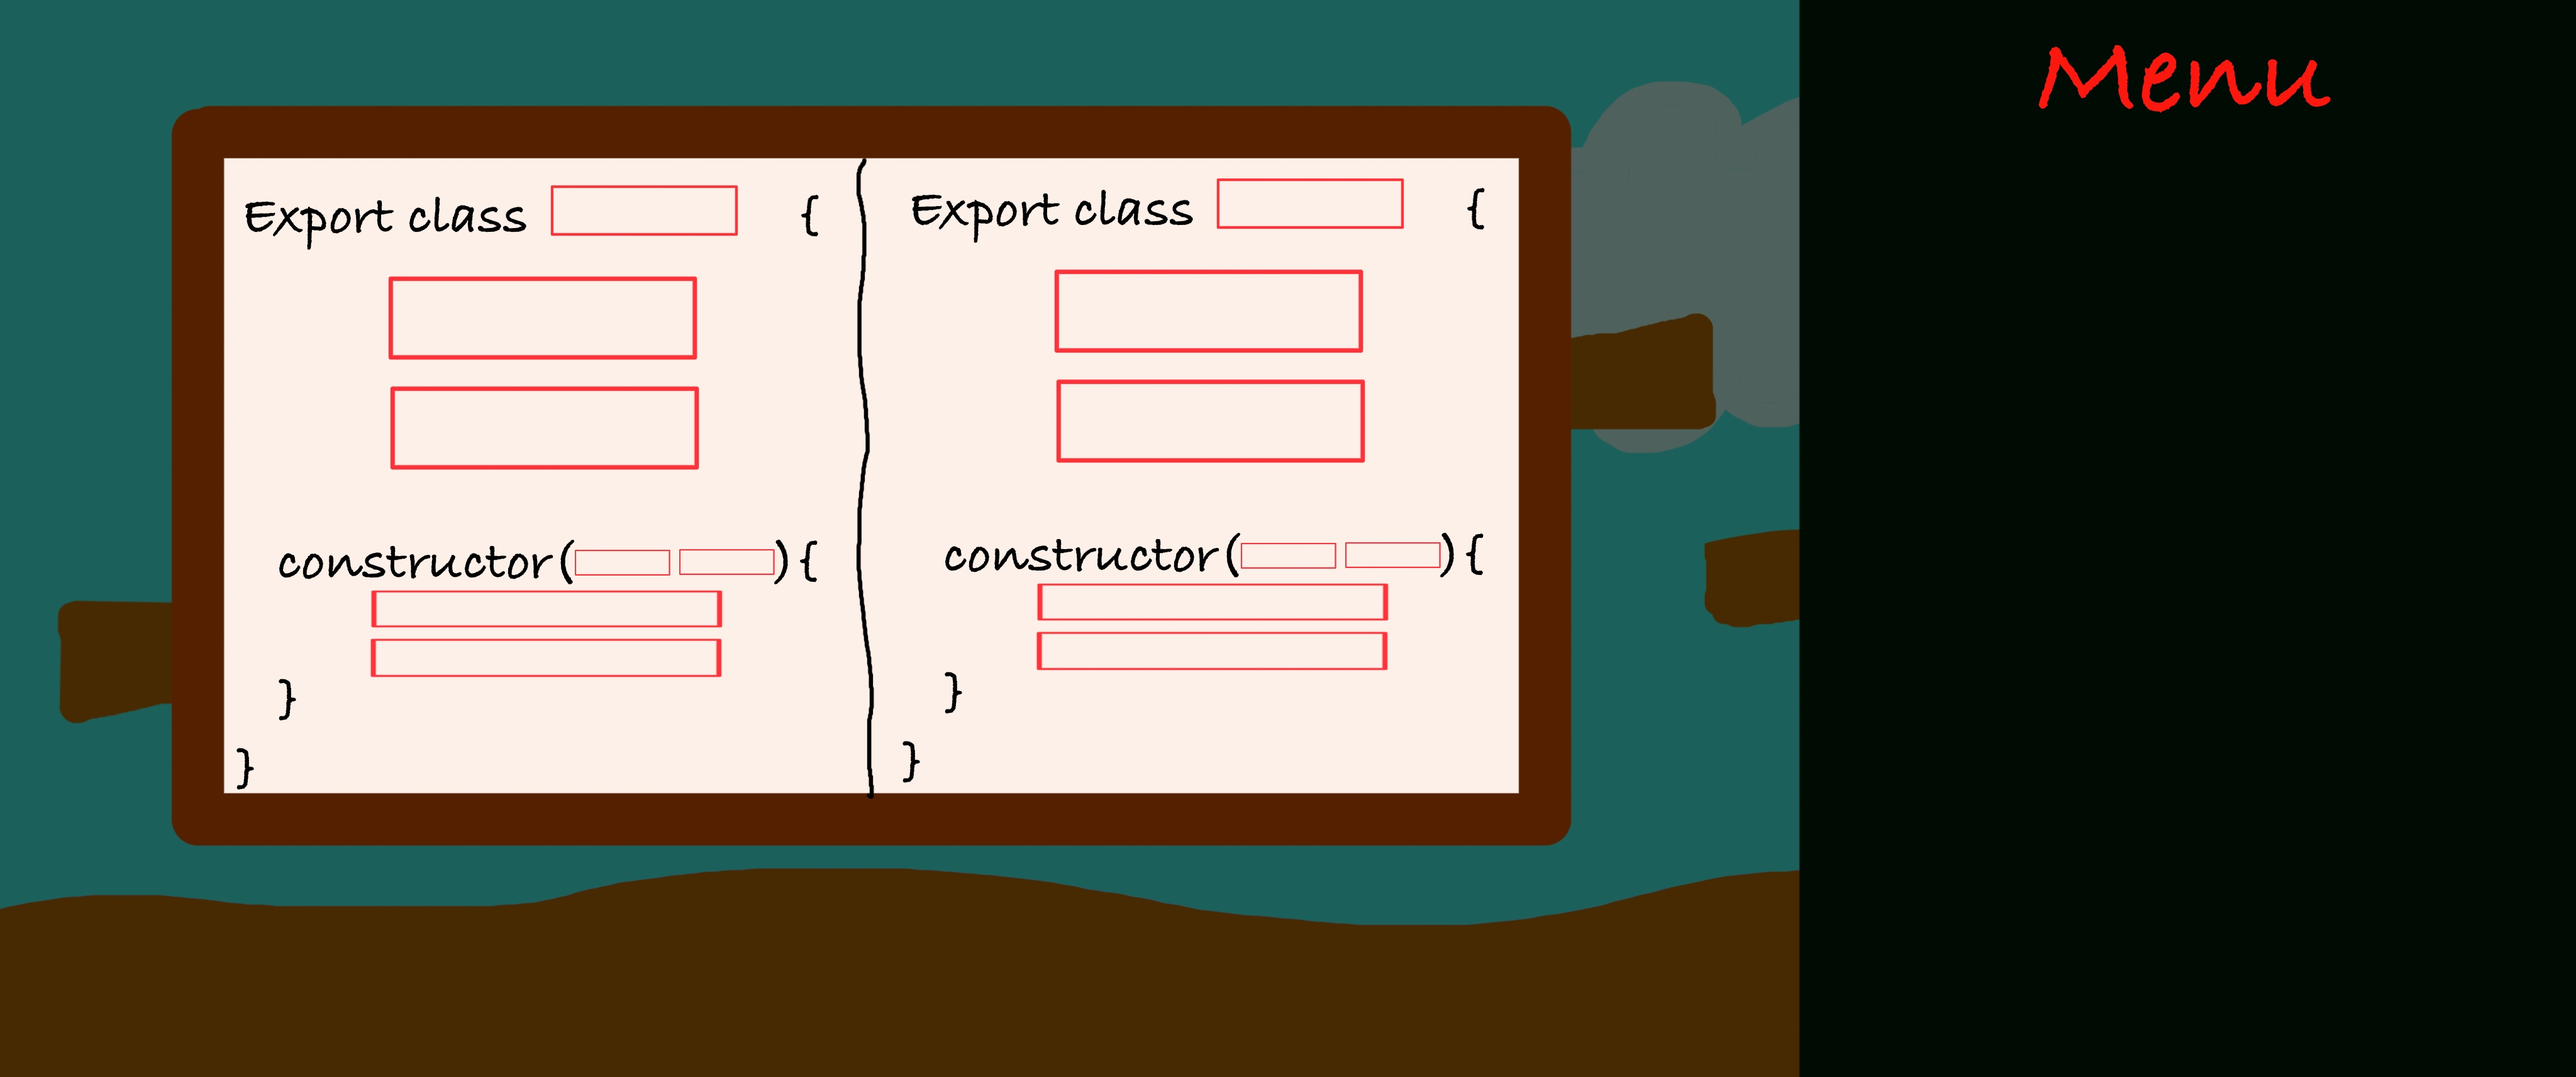
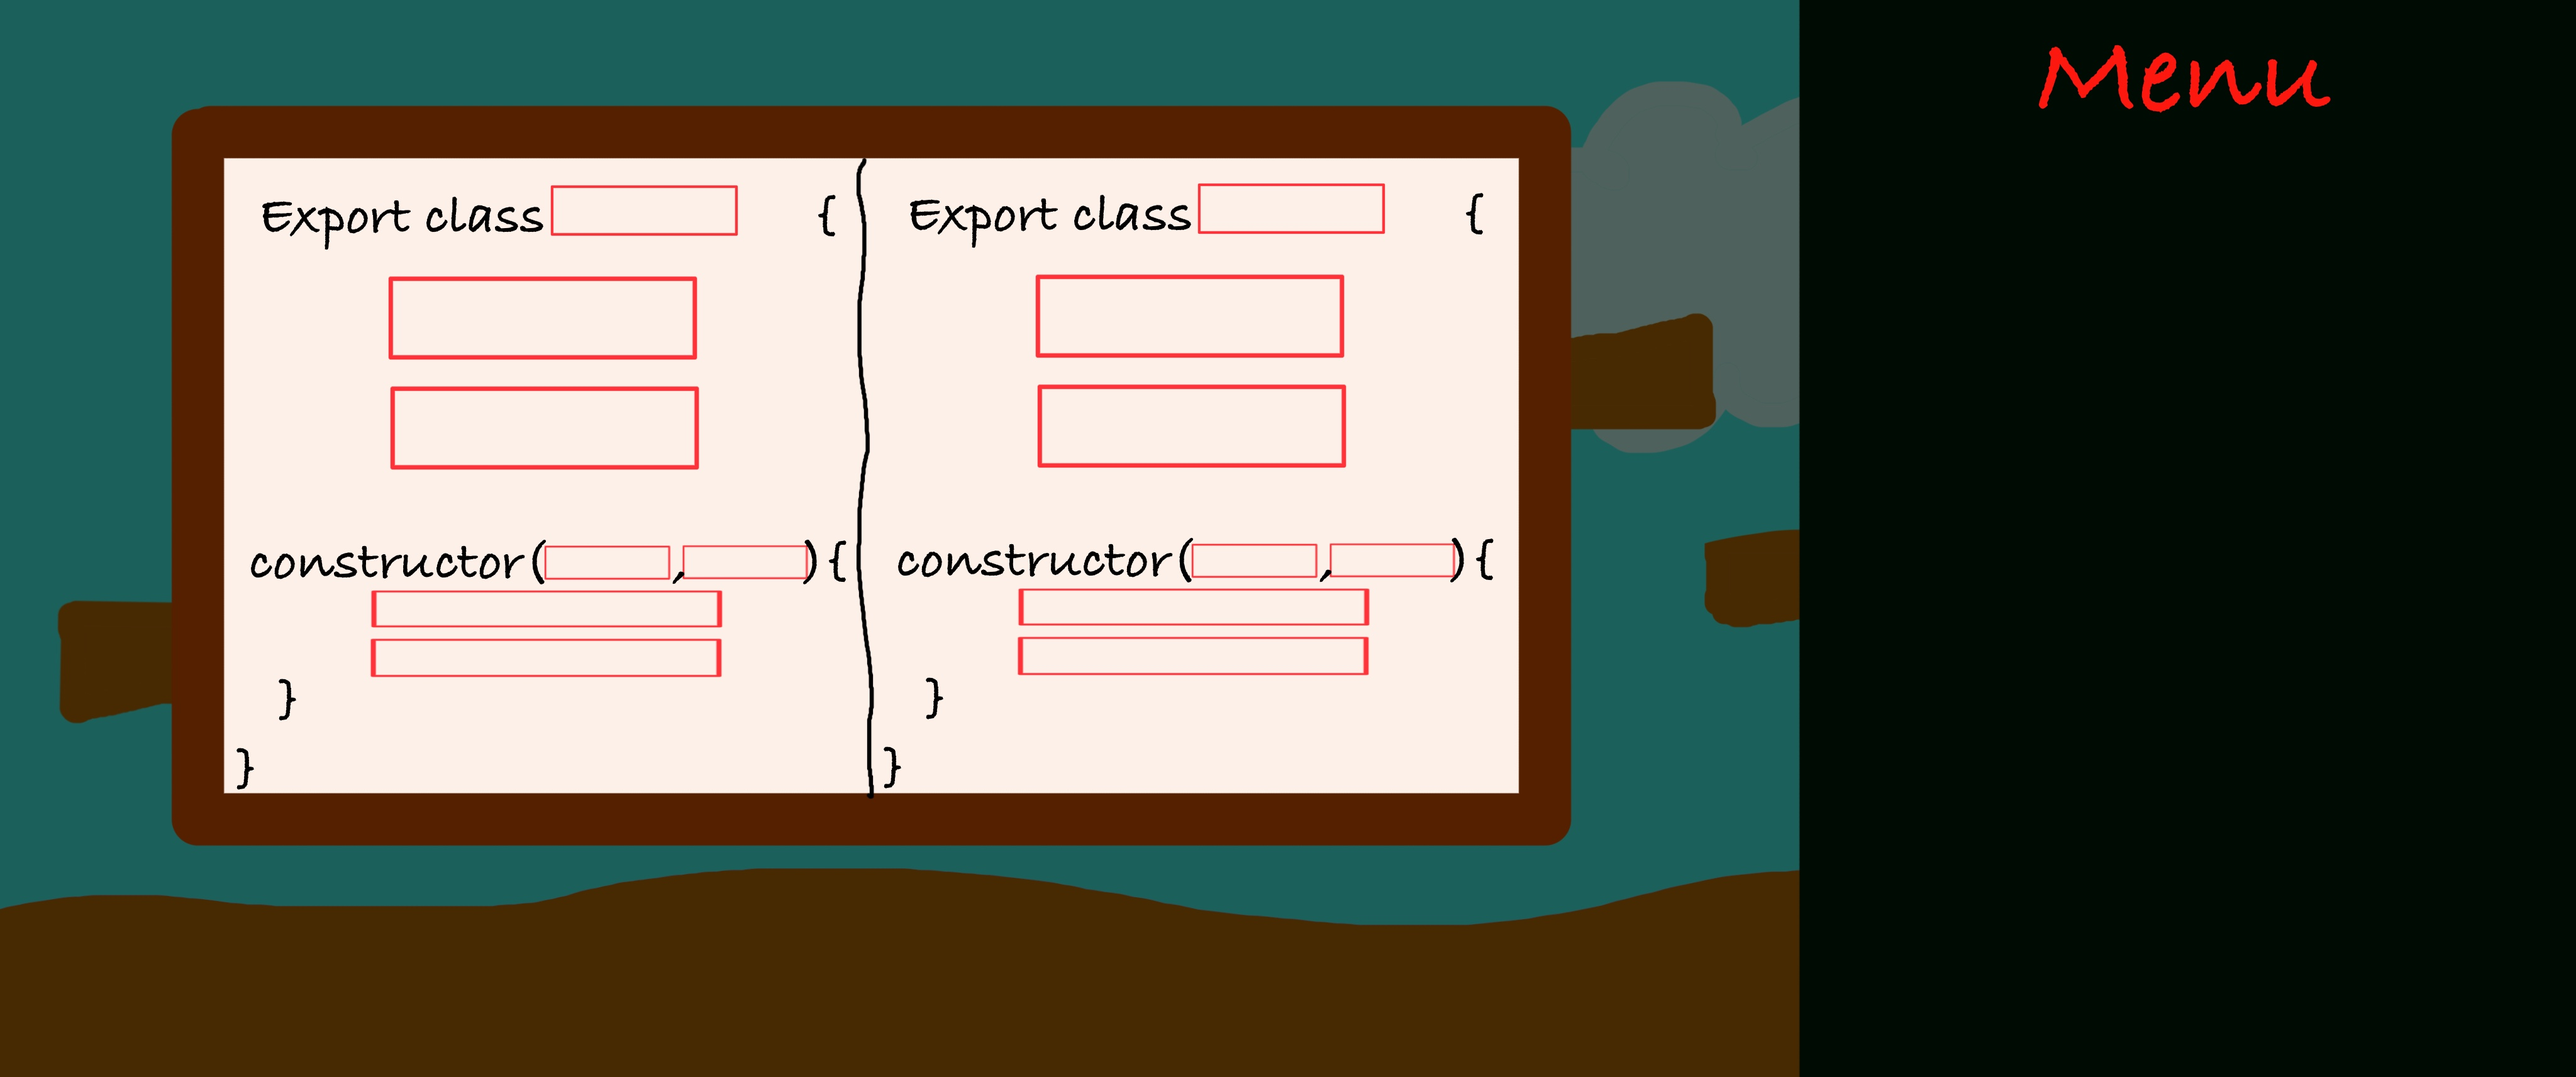
FINALLY correctly added functional textboxes

diff --git a/src/scenes/loadoutSceneTextboxInserts.ts b/src/scenes/loadoutSceneTextboxInserts.ts
@@ -10,23 +10,156 @@ export default class LoadoutSceneTextboxInserts extends Phaser.Scene {
 
     create() {
         this.createEditableText(
-            100,
-            200,
-            "Click to edit...",
+            890,
+            292,
+            "CLASS",
             "#000000",
             "transparent",
-            "16px",
+            "70px",
             (newValue: string) => {
                 console.log("Text input updated to:", newValue);
             }
         );
         this.createEditableText(
-            500,
-            700,
-            "Try again...",
+            640,
+            650,
+            "ATTRIBUTE:TYPE;",
             "#000000",
             "transparent",
-            "16px",
+            "50px",
+            (newValue: string) => {
+                console.log("Text input updated to:", newValue);
+            }
+        );
+        this.createEditableText(
+            640,
+            470,
+            "ATTRIBUTE:TYPE;",
+            "#000000",
+            "transparent",
+            "50px",
+            (newValue: string) => {
+                console.log("Text input updated to:", newValue);
+            }
+        );
+        this.createEditableText(
+            868,
+            880,
+            "ATTRIBUTE:TYPE",
+            "#000000",
+            "transparent",
+            "22px",
+            (newValue: string) => {
+                console.log("Text input updated to:", newValue);
+            }
+        );
+        this.createEditableText(
+            1087,
+            880,
+            "ATTRIBUTE:TYPE",
+            "#000000",
+            "transparent",
+            "22px",
+            (newValue: string) => {
+                console.log("Text input updated to:", newValue);
+            }
+        );
+        this.createEditableText(
+            600,
+            945,
+            "this.ATTRIBUTE = ATTRIBUTE;",
+            "#000000",
+            "transparent",
+            "35px",
+            (newValue: string) => {
+                console.log("Text input updated to:", newValue);
+            }
+        );
+        this.createEditableText(
+            600,
+            1025,
+            "this.ATTRIBUTE = ATTRIBUTE;",
+            "#000000",
+            "transparent",
+            "35px",
+            (newValue: string) => {
+                console.log("Text input updated to:", newValue);
+            }
+        );
+
+        this.createEditableText(
+            1920,
+            292,
+            "CLASS",
+            "#000000",
+            "transparent",
+            "70px",
+            (newValue: string) => {
+                console.log("Text input updated to:", newValue);
+            }
+        );
+        this.createEditableText(
+            1670,
+            650,
+            "ATTRIBUTE:TYPE;",
+            "#000000",
+            "transparent",
+            "50px",
+            (newValue: string) => {
+                console.log("Text input updated to:", newValue);
+            }
+        );
+        this.createEditableText(
+            1670,
+            470,
+            "ATTRIBUTE:TYPE;",
+            "#000000",
+            "transparent",
+            "50px",
+            (newValue: string) => {
+                console.log("Text input updated to:", newValue);
+            }
+        );
+        this.createEditableText(
+            1896,
+            878,
+            "ATTRIBUTE:TYPE",
+            "#000000",
+            "transparent",
+            "22px",
+            (newValue: string) => {
+                console.log("Text input updated to:", newValue);
+            }
+        );
+        this.createEditableText(
+            2117,
+            878,
+            "ATTRIBUTE:TYPE",
+            "#000000",
+            "transparent",
+            "22px",
+            (newValue: string) => {
+                console.log("Text input updated to:", newValue);
+            }
+        );
+        this.createEditableText(
+            1630,
+            942,
+            "this.ATTRIBUTE = ATTRIBUTE;",
+            "#000000",
+            "transparent",
+            "35px",
+            (newValue: string) => {
+                console.log("Text input updated to:", newValue);
+            }
+        );
+        this.createEditableText(
+            1630,
+            1022,
+            "this.ATTRIBUTE = ATTRIBUTE;",
+            "#000000",
+            "transparent",
+            "35px",
             (newValue: string) => {
                 console.log("Text input updated to:", newValue);
             }

diff --git a/src/config.ts b/src/config.ts
@@ -2,9 +2,6 @@ import Phaser from "phaser";
 import MainScene from "./scenes/mainScene";
 import PreloadScene from "./scenes/preloadScene";
 import LoadoutSceneTextboxInserts from "./scenes/loadoutSceneTextboxInserts";
-
-import LoadoutSceneTextboxTest from "./scenes/loadoutSceneTextboxTest";
-
 import LoadoutSceneOne from "./scenes/loadoutSceneOne";
 import LoadoutSceneGun from "./scenes/loadoutSceneGun";
 import LoadoutSceneGunMagazine from "./scenes/loadoutSceneGunMagazine";
@@ -41,7 +38,6 @@ export const CONFIG = {
         LoadoutSceneClothesPants,
         LoadoutSceneClothesShirt,
         levelOne,
-        LoadoutSceneTextboxTest,
     ],
     physics: {
         default: "arcade",

diff --git a/src/scenes/loadoutSceneOne.ts b/src/scenes/loadoutSceneOne.ts
@@ -45,7 +45,7 @@ export default class LoadoutSceneOne extends Phaser.Scene {
             }
         );
 
-        this.createClickableText(
+        /*this.createClickableText(
             3150,
             850,
             "- LOCKED",
@@ -70,7 +70,7 @@ export default class LoadoutSceneOne extends Phaser.Scene {
             "#ff0000",
             "#00000000",
             () => {}
-        );
+        );*/
     }
 
     createClickableText(
